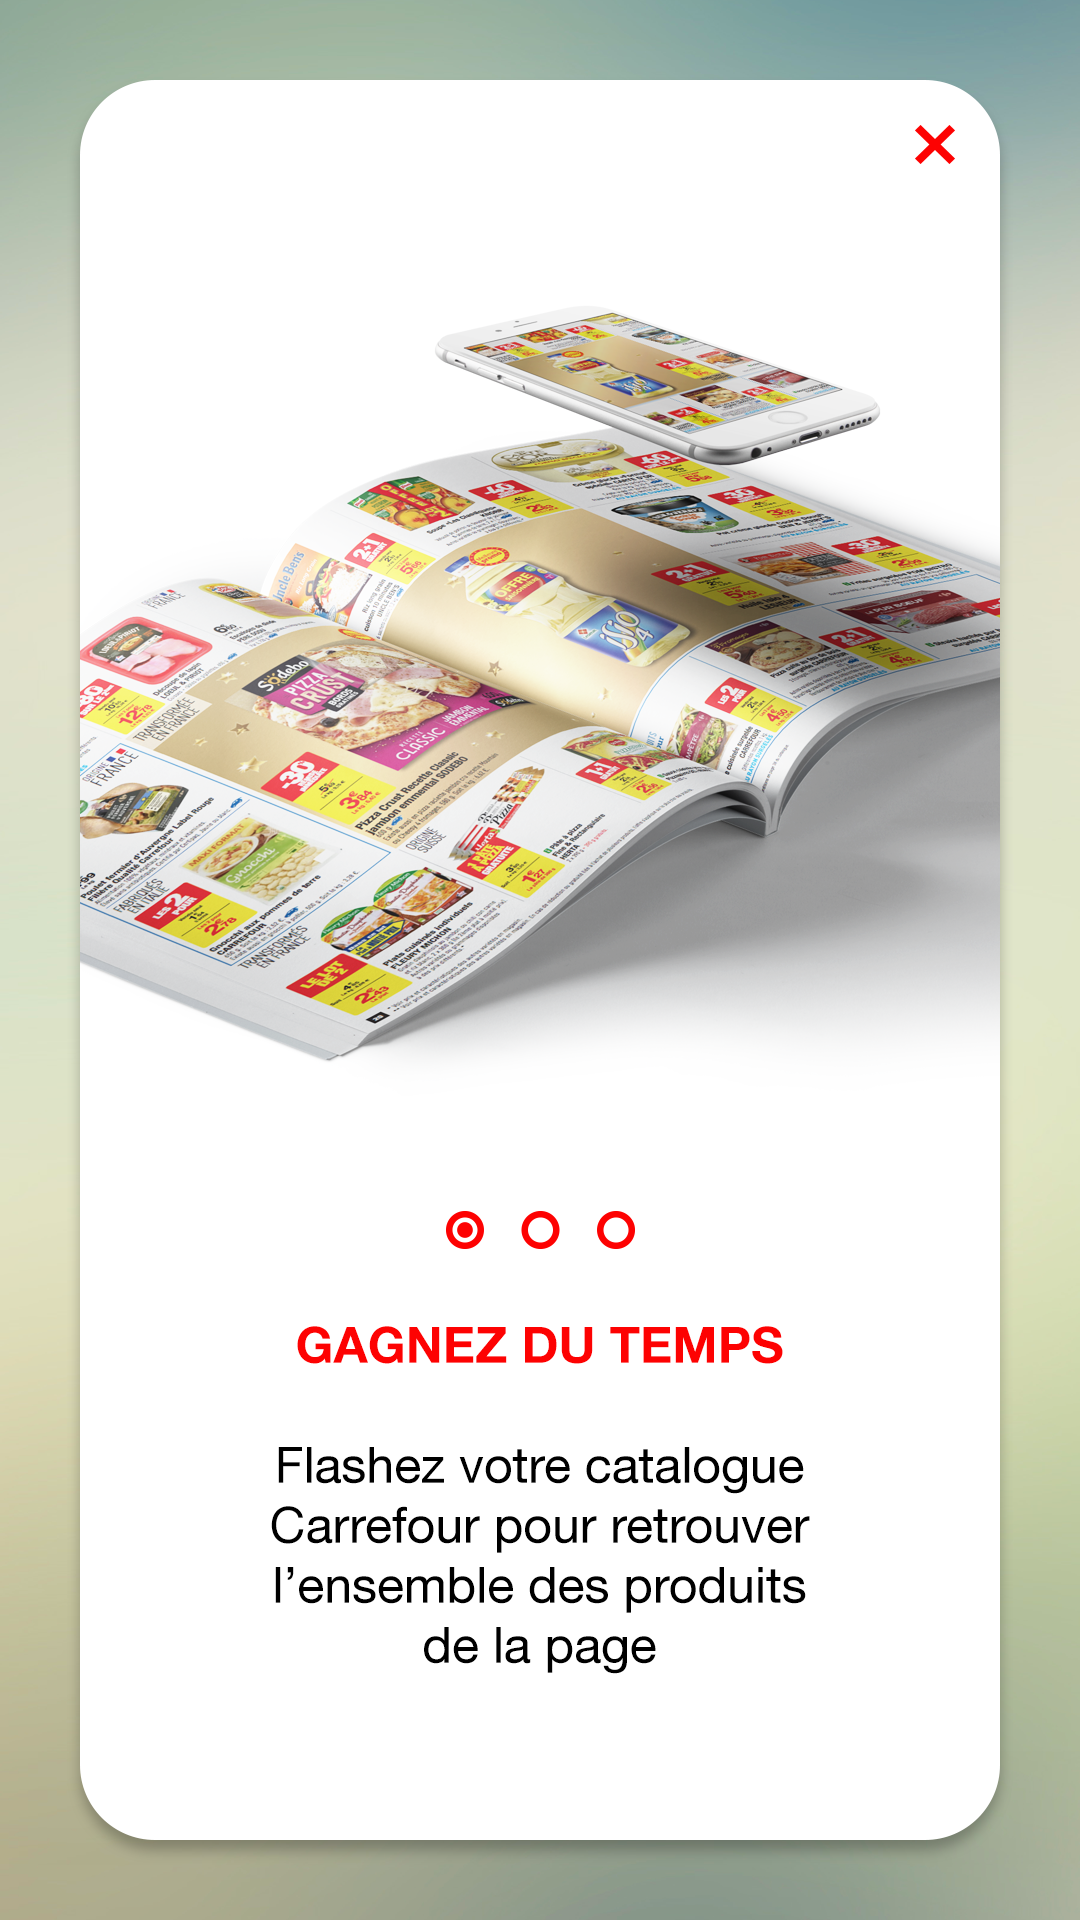
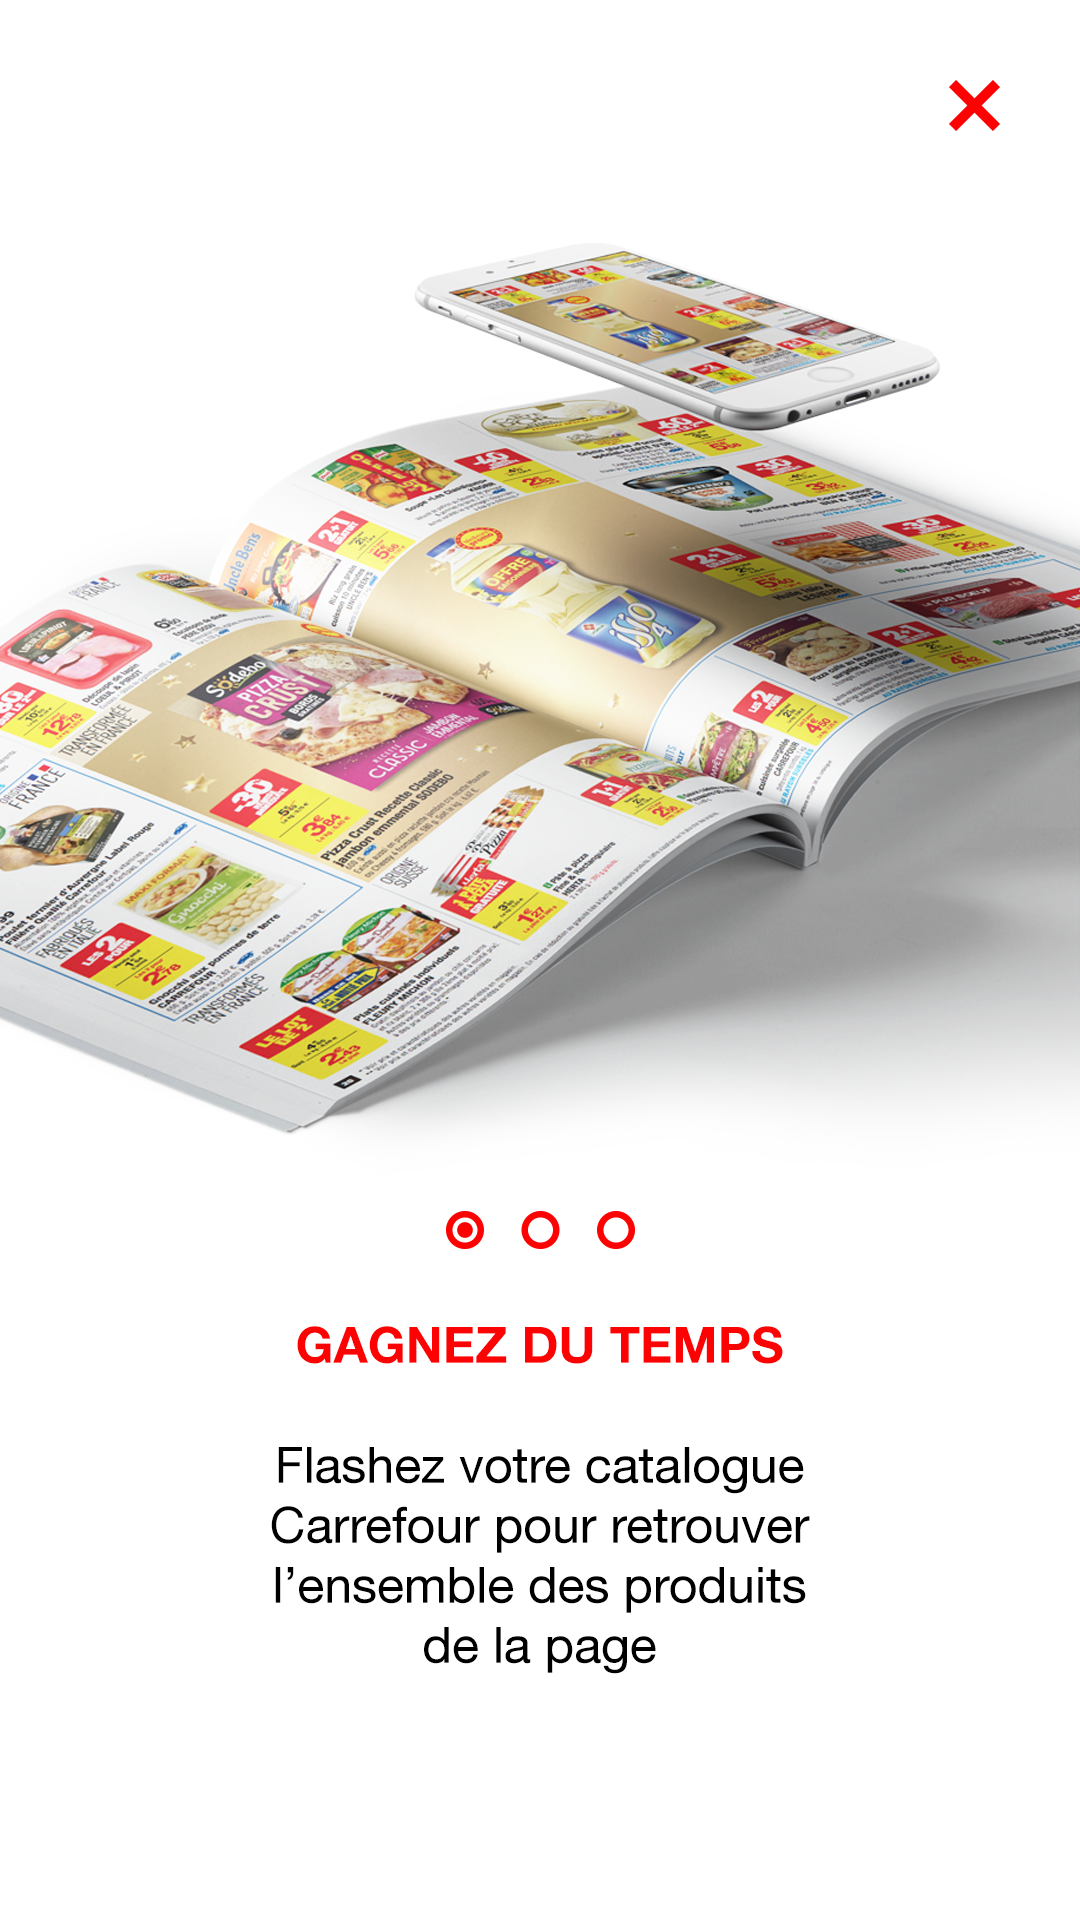
correctifs

diff --git a/src/app/app.html b/src/app/app.html
@@ -8,11 +8,11 @@
   <ion-content>
   	<ion-list *ngIf="productsList">
 	  <ion-item *ngFor="let product of productsList">
-	    <ion-thumbnail item-start>
+	    <ion-thumbnail item-start (click)="openUrl(product)">
 	      <img app-anim-on-load [src]="'http://34.248.114.48\:3000/' + product.images[0]">
 	    </ion-thumbnail>
-	    <h2>{{product.brand.name}}</h2>
-	    <p>{{product.name}}</p>
+	    <h2 (click)="openUrl(product)">{{product.brand.name}}</h2>
+	    <p (click)="openUrl(product)">{{product.name}}</p>
 	    <button ion-button clear item-end icon-only (click)="removeProductFromList(product)">
 	    	<ion-icon name="close"></ion-icon>
 	    </button>

diff --git a/src/modals/product.modal.html b/src/modals/product.modal.html
@@ -44,6 +44,9 @@
                 <ion-card *ngIf="item.conseil" (click)="openUrl(item.conseil)">
                     <img app-anim-on-load [src]="'assets/imgs/conseils.png'">
                 </ion-card>
+                <ion-card *ngIf="item.ooshop" (click)="openUrl(item.ooshop)">
+                    <img app-anim-on-load [src]="'assets/imgs/ooshop.png'">
+                </ion-card>
             </ion-slide>
         </ion-slides>
     </ion-card>

diff --git a/src/pages/home/home.html b/src/pages/home/home.html
@@ -45,6 +45,9 @@
 				<ion-card *ngIf="item.conseil" (click)="openUrl(item.conseil)">
 					<img app-anim-on-load [src]="'assets/imgs/conseils.png'">
 				</ion-card>
+				<ion-card *ngIf="item.ooshop" (click)="openUrl(item.ooshop)">
+                    <img app-anim-on-load [src]="'assets/imgs/ooshop.png'">
+                </ion-card>
 			  </ion-slide>
 			</ion-slides>
 

diff --git a/src/app/app.component.ts b/src/app/app.component.ts
@@ -35,9 +35,11 @@ export class MyApp {
     this.productService.removeFromProductsList(product);
   }
 
-  openUrl(url):void {
-    let browser = this.inAppBrowser.create(url);
-    browser.show();
+  openUrl(product):void {
+    if(product.more && product.more.ooshop){
+      let browser = this.inAppBrowser.create(product.more.ooshop);
+      browser.show();
+    }
   }
 
 

diff --git a/src/pages/home/home.ts b/src/pages/home/home.ts
@@ -112,7 +112,7 @@ export class HomePage {
 					this.result = JSON.parse(data.response)[0];
 					console.dir(this.result);
 
-					if(this.result.summary.publication_id === 3075){
+					if(this.result.summary.publication_id === 3075 || this.result.summary.publication_id === 3085){
 
 						/////
 						/*this.more = [

diff --git a/src/app/app.scss b/src/app/app.scss
@@ -20,6 +20,15 @@ html, body, ion-app, .ion-app, .ion-content {
 	background-color: transparent !important;
 }
 
+.platform-ios {
+	.nav-decor {
+  		background-color: transparent !important;
+	}
+	ion-nav {
+		box-shadow: none !important;
+	}
+}
+
 // Spinner
 .theme-spinner {
 	circle {
